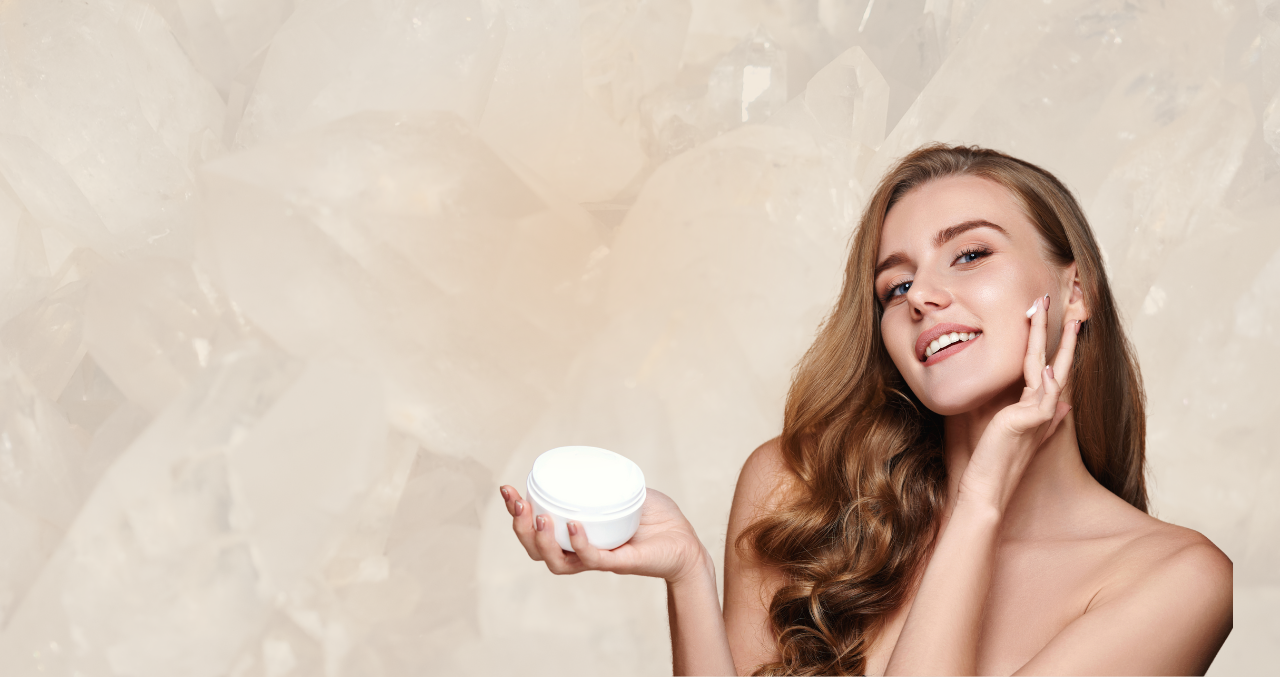
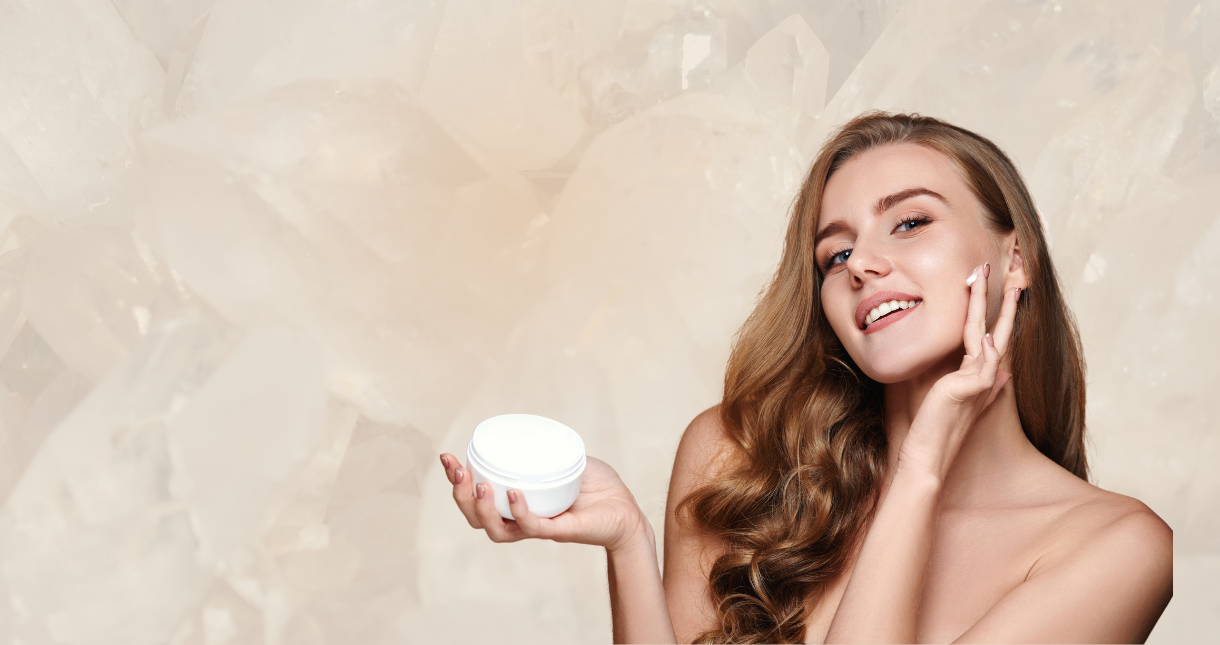
added slider, updated it in javascript & css

diff --git a/resources/style/styles.css b/resources/style/styles.css
@@ -99,7 +99,7 @@ body {
 }
 
 .thumbnail {
-    background-image: url('../images/BEIGE.png');
+    /* background-image: url('../images/BEIGE.png'); */
     height: 500px;
     width: 100%;
     background-size: cover;
@@ -111,6 +111,16 @@ body {
     justify-content: center;
 }
 
+.swiper-slide {
+    display: flex;
+    justify-content: center;
+    align-items: center;
+    height: 500px;
+    flex-direction: column;
+    color: #fff;
+    background-size: cover;
+    background-position: center;
+}
 
 .overlay {
     /* text-align: left; */
@@ -143,6 +153,23 @@ body {
     color: #796B4A;
     font-size: 15px;
     font-family: 'Segoe UI', Tahoma, Geneva, Verdana, sans-serif
+}
+
+.swiper-button-next,
+.swiper-button-prev {
+    width: 20px;
+    height: 5px;
+    color: #000;
+    top: auto; 
+    bottom: 25px; 
+}
+
+.swiper-pagination-bullet {
+    background: #000; 
+}
+
+.swiper-pagination-bullet-active {
+    background: #fff; 
 }
 
 .white-text {

diff --git a/resources/js/script.js b/resources/js/script.js
@@ -57,3 +57,23 @@ function validateForm() {
 
     alert('Name and email was corect!');
 }
+
+var swiper = new Swiper('.swiper-container', {
+    slidesPerView: 1,
+    loop: true,
+    effect: 'fade',
+    speed: 1000,
+    autoplay: {
+      delay: 5000,
+    },
+    pagination: {
+      el: '.swiper-pagination',
+      clickable: true,
+    },
+    navigation: {
+      nextEl: '.swiper-button-next',
+      prevEl: '.swiper-button-prev',
+    },
+  });
+
+

diff --git a/test.php b/test.php
@@ -1,6 +1,13 @@
-<?php  require './views/partials/header.php' ?>
-
-<div class="swiper-container">
+<!DOCTYPE html>
+<html lang="en">
+<head>
+    <meta charset="UTF-8">
+    <meta name="viewport" content="width=device-width, initial-scale=1.0">
+    <link rel="stylesheet" href="https://unpkg.com/swiper/swiper-bundle.min.css" />
+    <link rel="stylesheet" href="resources/style/styles.css">
+</head>
+<body>
+    <div class="swiper-container">
         <div class="swiper-wrapper">
             <div class="swiper-slide" style="background-image: url('resources/images/BEIGE.png');">
                 <div class="overlay">
@@ -75,6 +82,11 @@
         </div>
     </section>
 
+    <script src="https://unpkg.com/swiper/swiper-bundle.min.js"></script>
+    <script src="resources/js/script.js"></script>
 
+    
 <?php require './views/partials/contact.php' ?>
 <?php require './views/partials/footer.php' ?>
+</body>
+</html>

diff --git a/index.php b/index.php
@@ -1,6 +1,6 @@
 <?php 
 require './functions.php';
-require './Database.php';
+// require './Database.php';
 
 $host = "localhost";
 $port = "3306";
@@ -9,7 +9,7 @@ $dataBase = "mysql";
 $dbUser = "root";
 $password = '';
 
-$db = new Database($dataBase, $host, $port, $dbName, $dbUser, $password);
+// $db = new Database($dataBase, $host, $port, $dbName, $dbUser, $password);
 
 // dd($db->query('select * from products where id = 1')->fetch());
 

diff --git a/views/partials/header.php b/views/partials/header.php
@@ -6,6 +6,7 @@
     <meta charset="UTF-8">
     <meta name="viewport" content="width=device-width, initial-scale=1.0">
     <link rel="icon" type="image/x-icon" href="./resources/images/favicon.ico">
+    <link rel="stylesheet" href="https://unpkg.com/swiper/swiper-bundle.min.css" />
     <link rel="stylesheet" href="./resources/style/styles.css">
 </head>
 

diff --git a/views/partials/footer.php b/views/partials/footer.php
@@ -50,6 +50,8 @@
 </footer>
 
 
+
+<script src="https://unpkg.com/swiper/swiper-bundle.min.js"></script>
 <script src="./resources/js/script.js"></script>
 </body>
 
